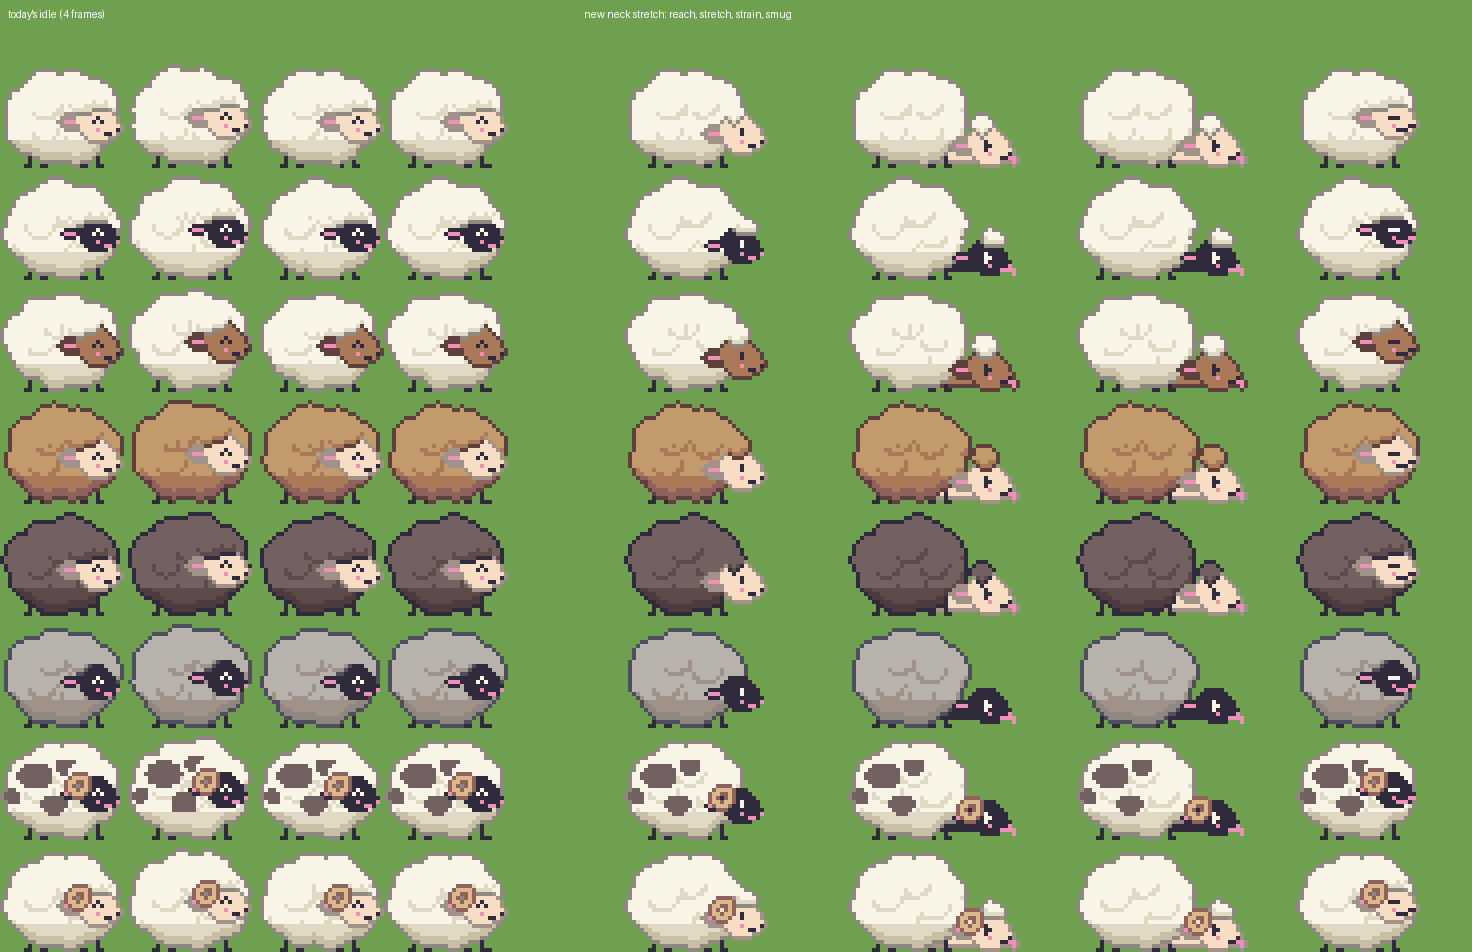
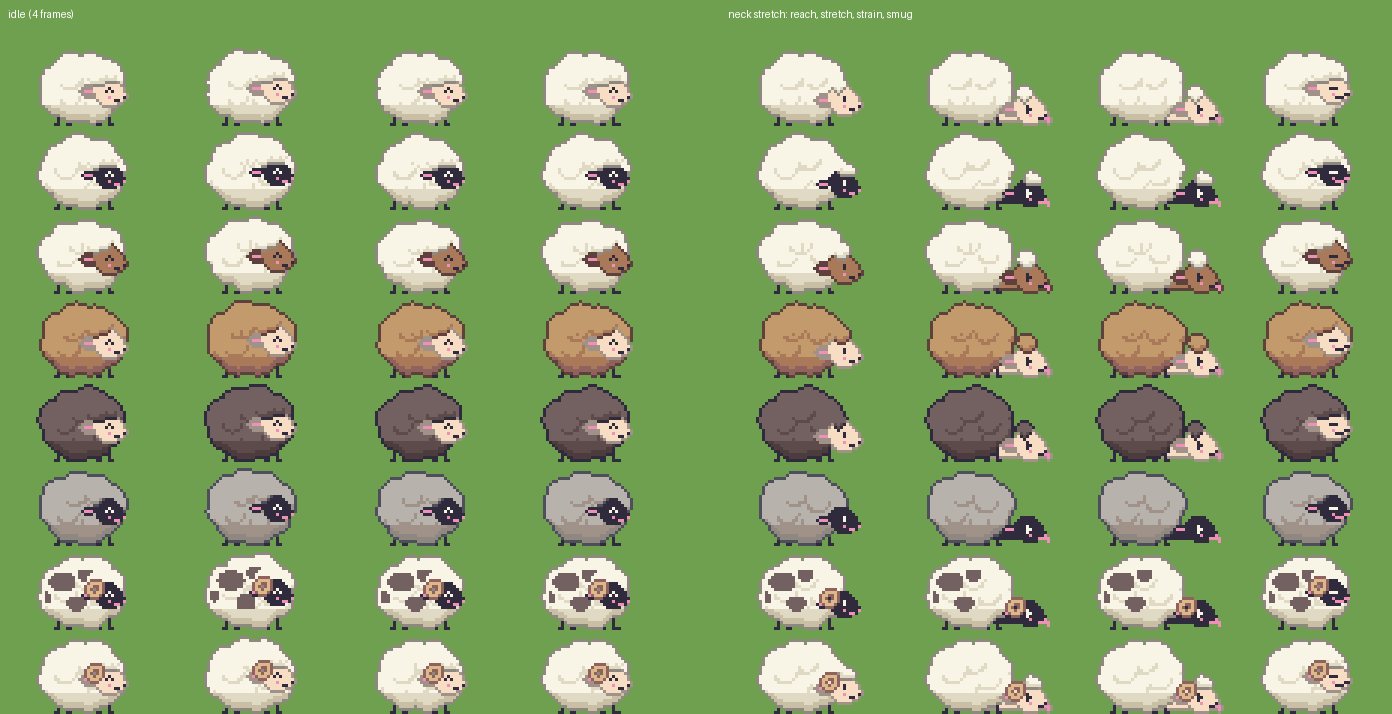
The spotted sheep's patches stay inside her fleece, so none sticks out past her outline

diff --git a/tools/build_sheep_art.py b/tools/build_sheep_art.py
@@ -154,10 +154,18 @@ def spots(cv, cx, cy, a, b):
     y0, y1 = min(y for _, y in fleece), max(y for _, y in fleece) + 1
     cx, cy, a, b = (x0 + x1) / 2, (y0 + y1) / 2, (x1 - x0) / 2, (y1 - y0) / 2
     size = math.sqrt(a * b)
+    inside = set(fleece)
+    rim = {(x, y) for x, y in inside
+           if any((x + dx, y + dy) not in inside for dx in (-1, 0, 1) for dy in (-1, 0, 1))}
     for u, v, r, wide in SPOTS_LAYOUT:
         px, py, ry = cx + u * a, cy + v * b, r * size
         rx = ry * wide
         for (x, y), c in list(cv.px.items()):
+            # Never on the fleece's outermost pixels: a spot that reached the edge
+            # coloured a lump of the silhouette and read as a growth sticking out of
+            # her (Daniel, 2026-10-14), so a rim of plain fleece always rings the spots.
+            if (x, y) in rim:
+                continue
             if c in ("W", "S", "D") and ((x + 0.5 - px) / rx) ** 2 + ((y + 0.5 - py) / ry) ** 2 <= 1.0:
                 # Solid spots: only the fleece's shaded underside shows through.
                 cv.put(x, y, "Y" if c == "D" else "X")
